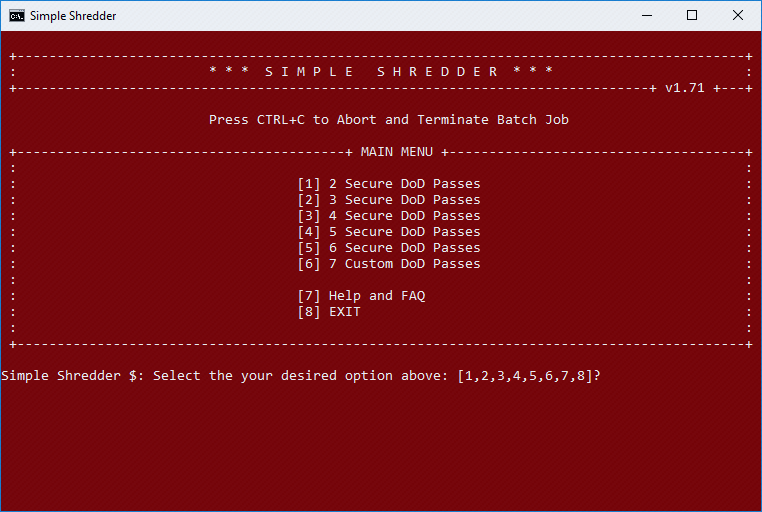
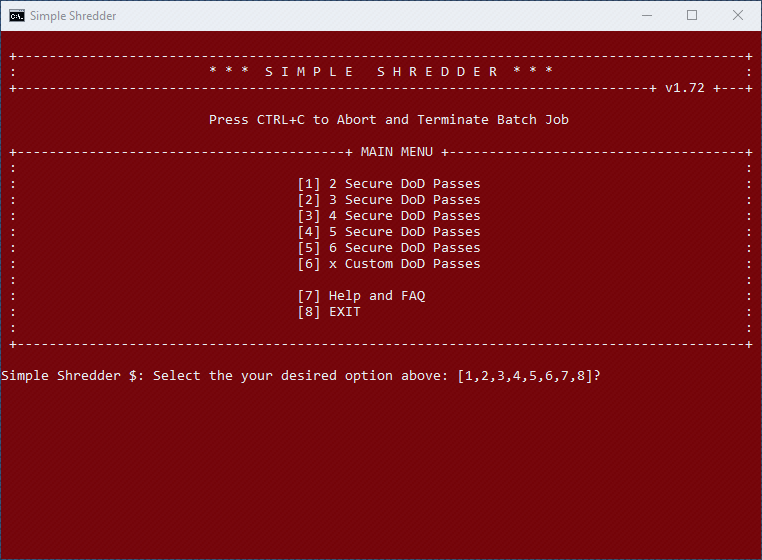
ss: fix screnshot and ss custom entry + readme

diff --git a/README.md b/README.md
@@ -4,11 +4,14 @@
 
 This small batch file, leverages the power of SDelete in order to shred files or folders dragged and dropped onto the Simple Shedder icon.
 
-Simple Shredder is menu driven and offers a few options, at this time, it allows the user to decide between 2 to 6 passes that SDelete will use to shred your files into oblivion, likely for all time :).
+Simple Shredder is menu driven and offers a few options, at this time, it allows the user to decide between 2 to 6 or a custom number of passes that SDelete will use to shred your files into oblivion, likely for all time :).
 
 Once you download and extract the SDelete binaries into the Simple Shredder directory, you're set to go. Simple Shredder automatically uses the correct SDelete binary bitness 32-bit/64-bit which is system dependant.
 
-Just drag and drop Files or Folders and their contents onto the Simple Shredder icon to begin. Simple
+Just drag and drop Files or Folders and their contents onto the Simple Shredder icon to begin. Simple!
+
+SDelete is developed by Mark Russinovich ans is part of sysinternals suite.  
+Information about SDelete can be found [here](https://docs.microsoft.com/en-us/sysinternals/downloads/sdelete)
 
 ![Simple Shredder](./screenshots/Simple-Shredder.PNG "Main Menu")
 
